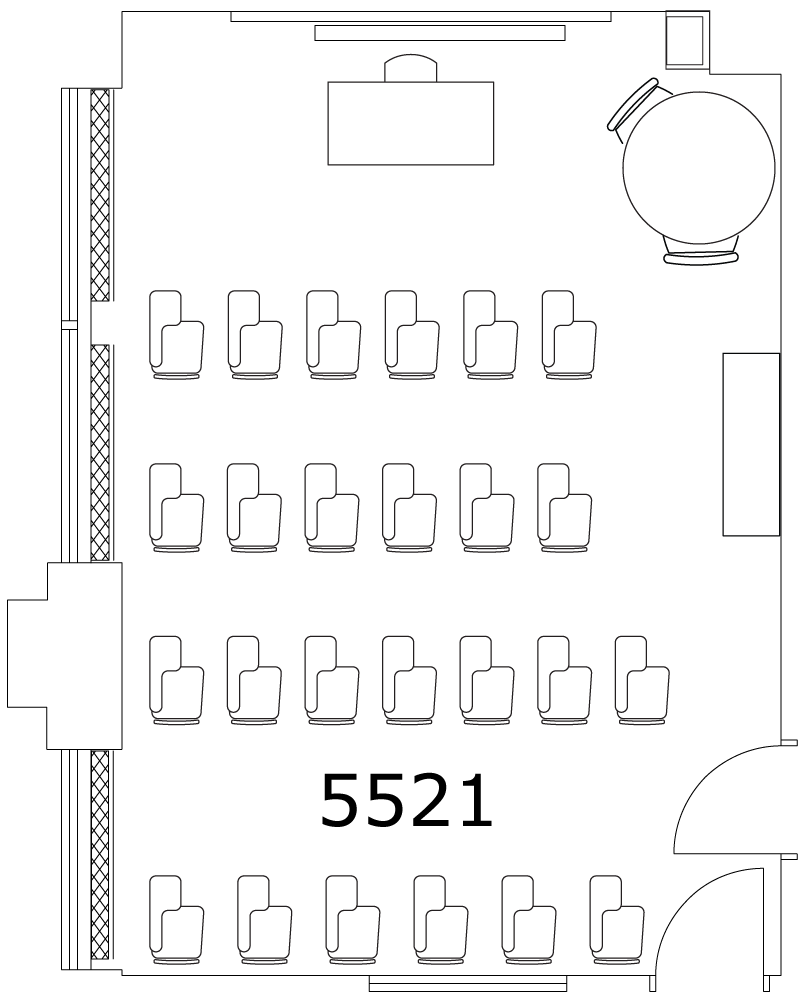
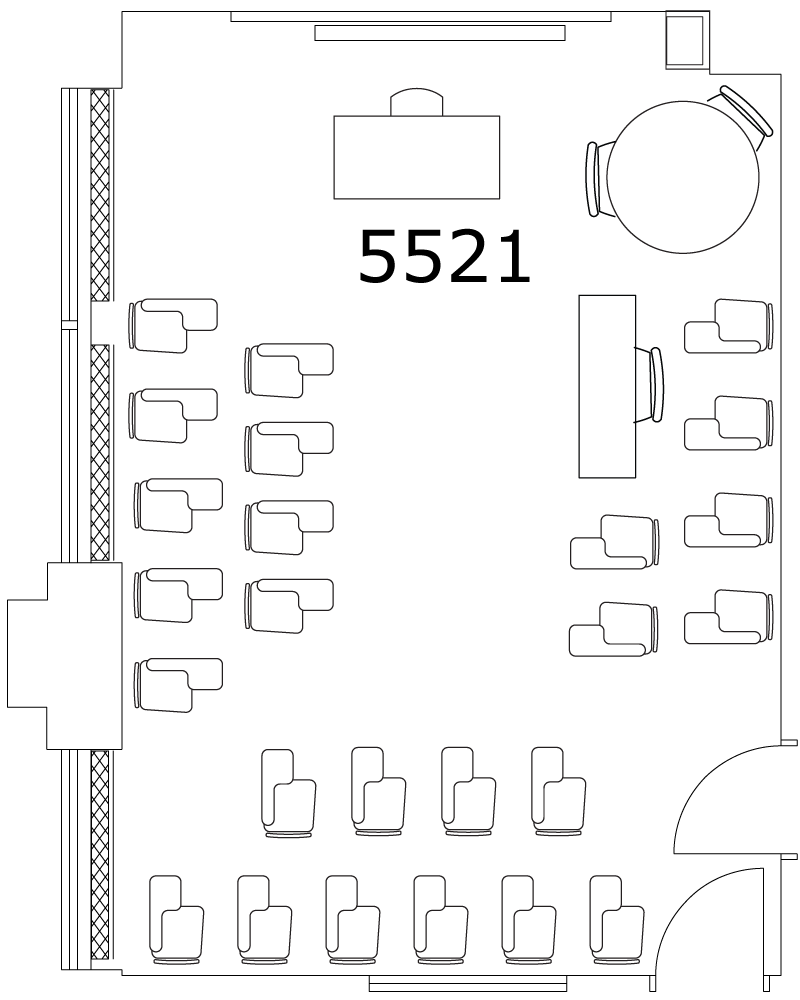
added seating charts and several other changes

diff --git a/app/assets/stylesheets/classrooms.css.sass b/app/assets/stylesheets/classrooms.css.sass
@@ -57,7 +57,12 @@ select
   float: left
       
 #rooms_search_form 
+  
+  min-width: 200px
+  //background-color: #B4C3DD
   background-color: #76a6c9
+  //@include transparent($transparency: 0.8, $trans: 80)
+  
   #min-height: 675px
   #height: 100%
   padding: 0 0 1000px 1em
@@ -130,8 +135,7 @@ select
     li
       list-style-type: none
 
-#rooms_search_form
-  min-width: 200px
+  
 .tooltip-inner 
   font-size: 1.3em
   color: #fff

diff --git a/app/assets/stylesheets/bootstrap_and_overrides.css.sass b/app/assets/stylesheets/bootstrap_and_overrides.css.sass
@@ -2,7 +2,7 @@
 $navbarBackground: #FFF
 $navbarBackgroundHighlight: #FFF
 $navbarLinkColorHover: #3A5AA0
-
+$font-size-base: 13px
 $navbarLinkBackgroundActive: #f8f5e4
 $navbarCollapseWidth: 720px
 @import "twitter/bootstrap"

diff --git a/app/controllers/users_controller.rb b/app/controllers/users_controller.rb
@@ -10,6 +10,11 @@ class UsersController < ApplicationController
     @user = User.find(params[:id])
   end
   
+  # GET /classrooms/1/edit
+  def edit
+    @user = User.find(params[:id])
+  end
+  
   def update
     authorize! :update, @user, :message => 'Not authorized as an administrator.'
     @user = User.find(params[:id])
@@ -21,8 +26,9 @@ class UsersController < ApplicationController
   end
     
   def destroy
-    authorize! :destroy, @user, :message => 'Not authorized as an administrator.'
     user = User.find(params[:id])
+    authorize! :destroy, @user, :message => 'Not authorized as an administrator.'
+    
     unless user == current_user
       user.destroy
       redirect_to users_path, :notice => "User deleted."

diff --git a/config/initializers/devise.rb b/config/initializers/devise.rb
@@ -106,7 +106,7 @@ Devise.setup do |config|
   # ==> Configuration for :timeoutable
   # The time you want to timeout the user session without activity. After this
   # time the user will be asked for credentials again. Default is 30 minutes.
-  # config.timeout_in = 30.minutes
+  config.timeout_in = 10.minutes
 
   # ==> Configuration for :lockable
   # Defines which strategy will be used to lock an account.
